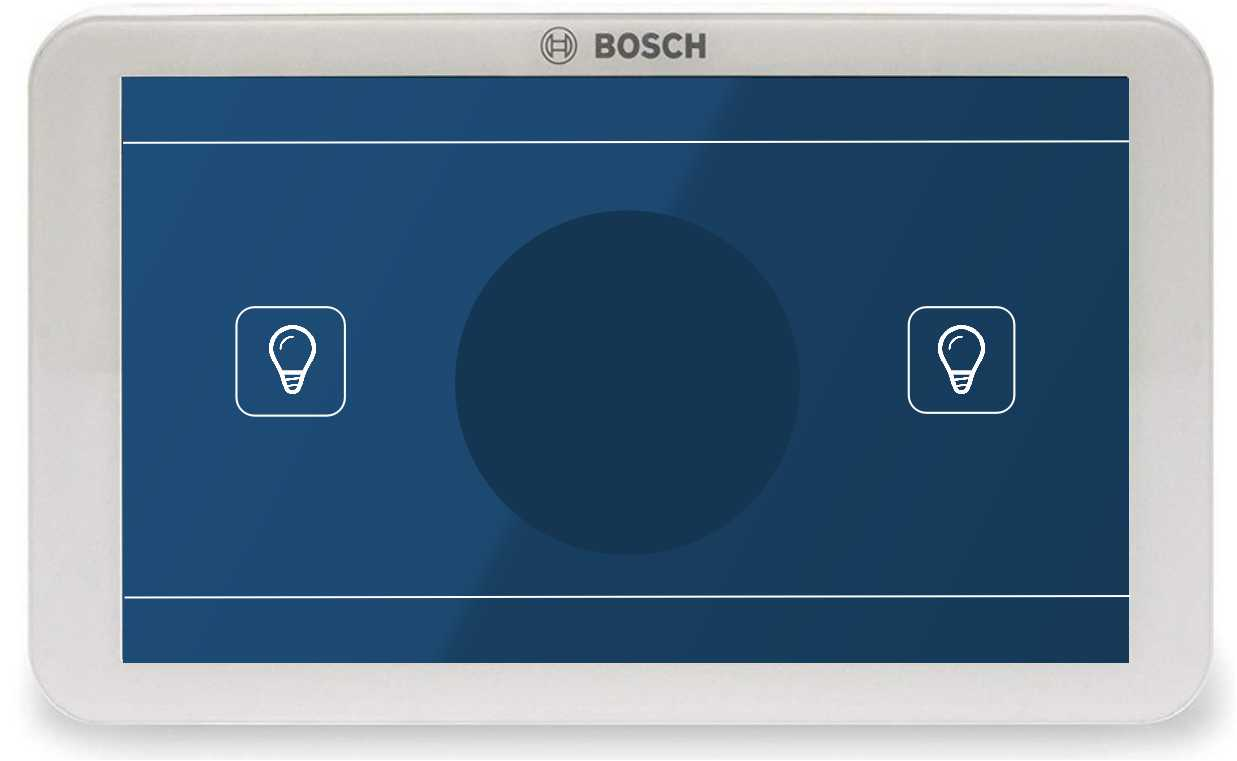
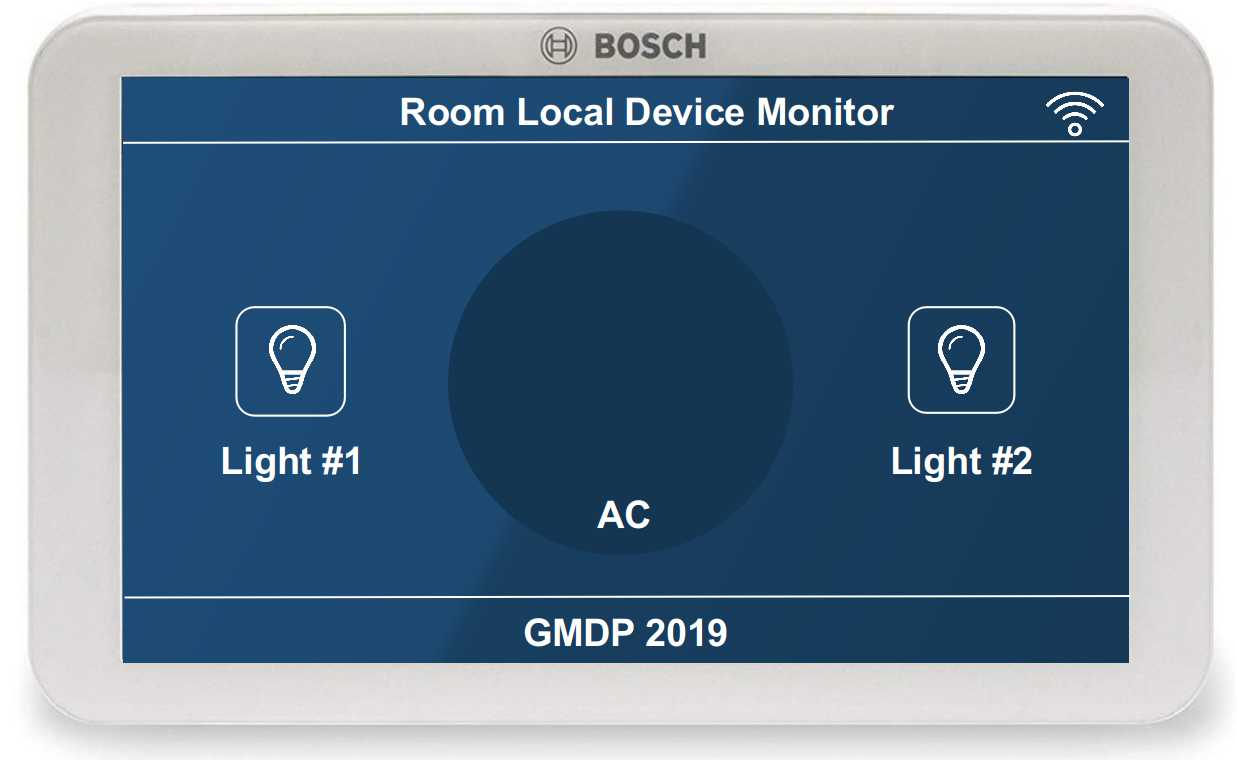
modify lib import sequence 	modified:   Bosch_Control_Panel_Cropped_1.jpg 	modified:   Bosch_Control_Panel_Cropped_2.jpg 	modified:   Bosch_Control_Panel_Cropped_3.jpg 	modified:   Bosch_Control_Panel_Cropped_4.jpg 	new file:   WIFI.png 	modified:   main.py

diff --git a/main.py b/main.py
@@ -2,6 +2,10 @@
 import tkinter as tk
 from tkinter import *
 from PIL import Image, ImageTk
+from urllib.request import urlopen, Request
+import requests
+import time
+#import json
 
 import platform
 if platform.node() == 'raspberrypi':
@@ -17,10 +21,7 @@ if use_device:
     GPIO.setmode(GPIO.BCM)
     GPIO.setup(PIN, GPIO.OUT)
 
-from urllib.request import urlopen, Request
-import requests
-import json, time
-
+auto_upload_trigger = time.time()
 
 # light 1 related variables
 light_1_initialize_flag = 0
@@ -181,48 +182,64 @@ class Application(tk.Frame):
         self.img.pack()
 
     def read_instruction(self):
-        request = Request('https://api.thingspeak.com/talkbacks/31641/commands/execute?api_key=NU6M3B6JB1Q3IR76')
-        response = urlopen(request)
-        command = response.read().decode()
-        '''
-        command code:
-        [device type(1)][control instruction(2)]
-        device type: 0 - lighting system
-                     1 - air-conditioner
-        000: light off
-        001: light on
-        1000: air-conditioner off
-        1010: air-conditioner on
-        11xx: air-conditioner set to xx degrees
-        '''
-        global waiting_status
-        if not command:
-            if waiting_status == 0:
-                waiting_status = 1
-                print("waiting for commands...")
-                pass
-            else:
-                pass
+        global light_1_not_running
+        global light_1_off
+        global auto_upload_trigger
+        global  light_1_running
+        global light_1_start
+        if (time.time() - auto_upload_trigger) > 60:
+            if light_1_status == 0:
+                light_1_not_running = time.time() - light_1_off
+                uploading_light_off_time()
+                light_1_off = time.time()
+            elif light_1_status == 1:
+                light_1_running = time.time() - light_1_start
+                uploading_light_running_time()
+                light_1_start = time.time()
+            auto_upload_trigger = time.time()
         else:
-            waiting_status = 0
-            if command[0] == '0':
-                decode_light(command[1:3])
-
-            elif command[0] == '1':
-                decode_ac(command[1:4])
-
+            request = Request('https://api.thingspeak.com/talkbacks/31641/commands/execute?api_key=NU6M3B6JB1Q3IR76')
+            response = urlopen(request)
+            command = response.read().decode()
+            '''
+            command code:
+            [device type(1)][control instruction(2)]
+            device type: 0 - lighting system
+                         1 - air-conditioner
+            000: light off
+            001: light on
+            1000: air-conditioner off
+            1010: air-conditioner on
+            11xx: air-conditioner set to xx degrees
+            '''
+            global waiting_status
+            if not command:
+                if waiting_status == 0:
+                    waiting_status = 1
+                    print("waiting for commands...")
+                    pass
+                else:
+                    pass
             else:
-                print("invalid instruction")
-        status_tmp = panel_status.get()
-        if status_tmp == 0:
-            self.render = ImageTk.PhotoImage(self.load_1)
-        elif status_tmp == 10:
-            self.render = ImageTk.PhotoImage(self.load_2)
-        elif status_tmp == 1:
-            self.render = ImageTk.PhotoImage(self.load_3)
-        else:
-            self.render = ImageTk.PhotoImage(self.load_4)
-        self.img.config(image=self.render)
+                waiting_status = 0
+                if command[0] == '0':
+                    decode_light(command[1:3])
+
+                elif command[0] == '1':
+                    decode_ac(command[1:4])
+
+                else:
+                    print("invalid instruction")
+            status_tmp = panel_status.get()
+            if status_tmp == 0:
+                self.render = ImageTk.PhotoImage(self.load_1)
+            elif status_tmp == 10:
+                self.render = ImageTk.PhotoImage(self.load_2)
+            elif status_tmp == 1:
+                self.render = ImageTk.PhotoImage(self.load_3)
+            else:
+                self.render = ImageTk.PhotoImage(self.load_4)
+            self.img.config(image=self.render)
 
     def updater(self):
         self.read_instruction()
